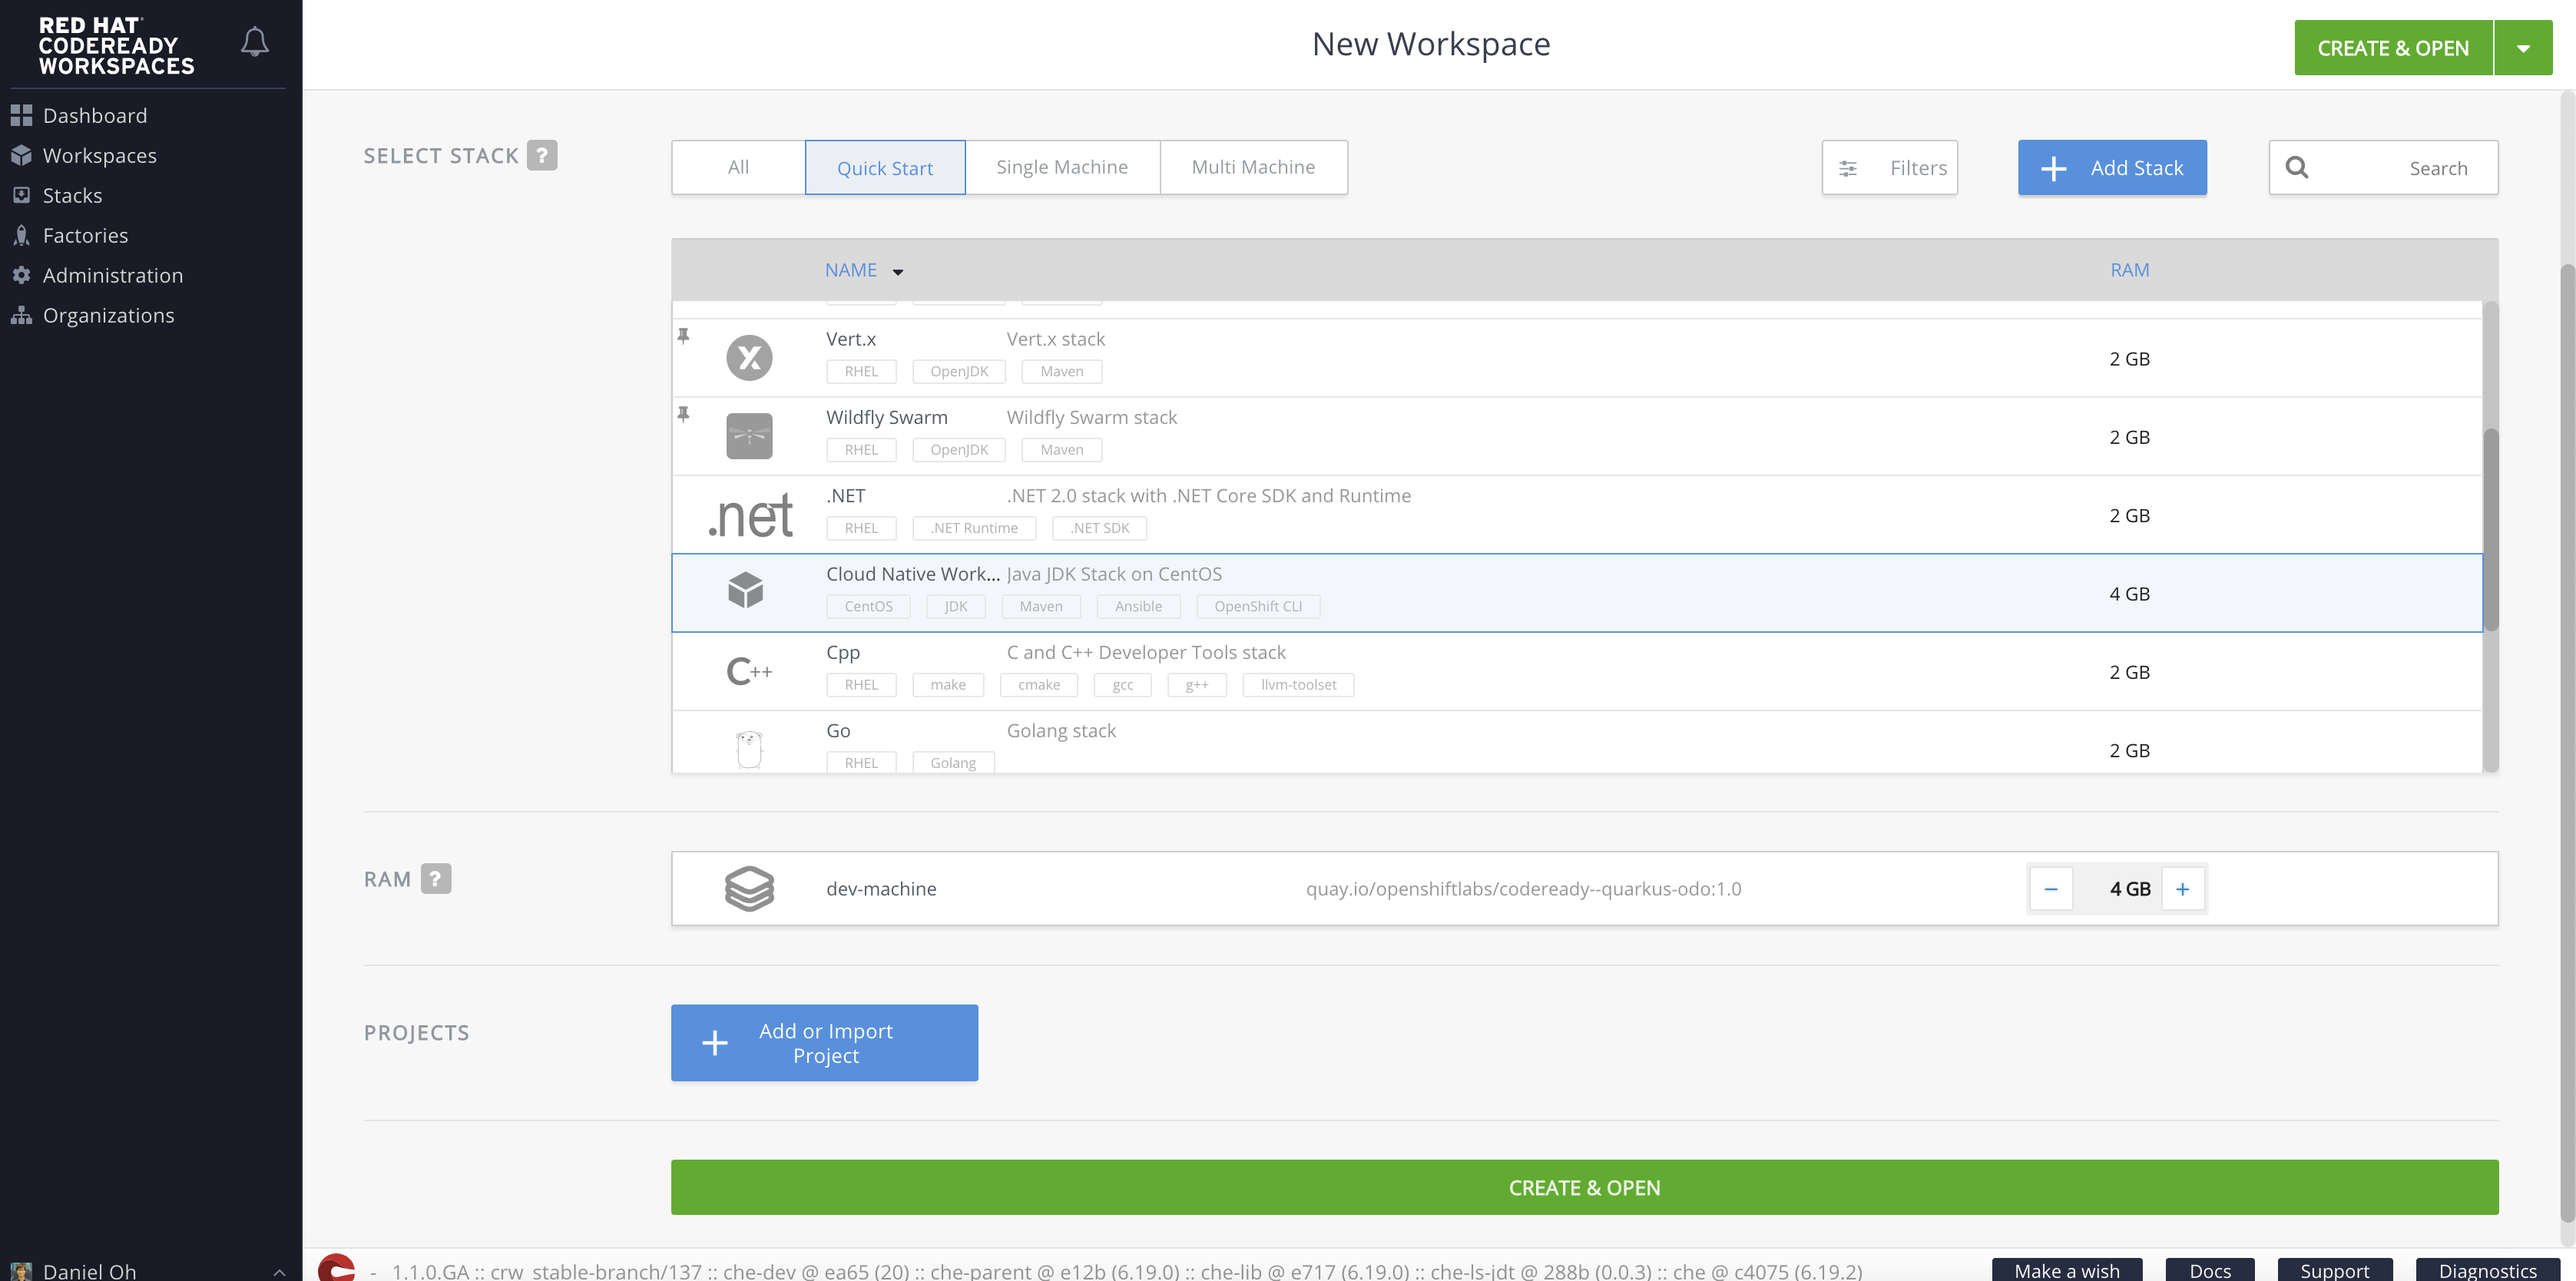
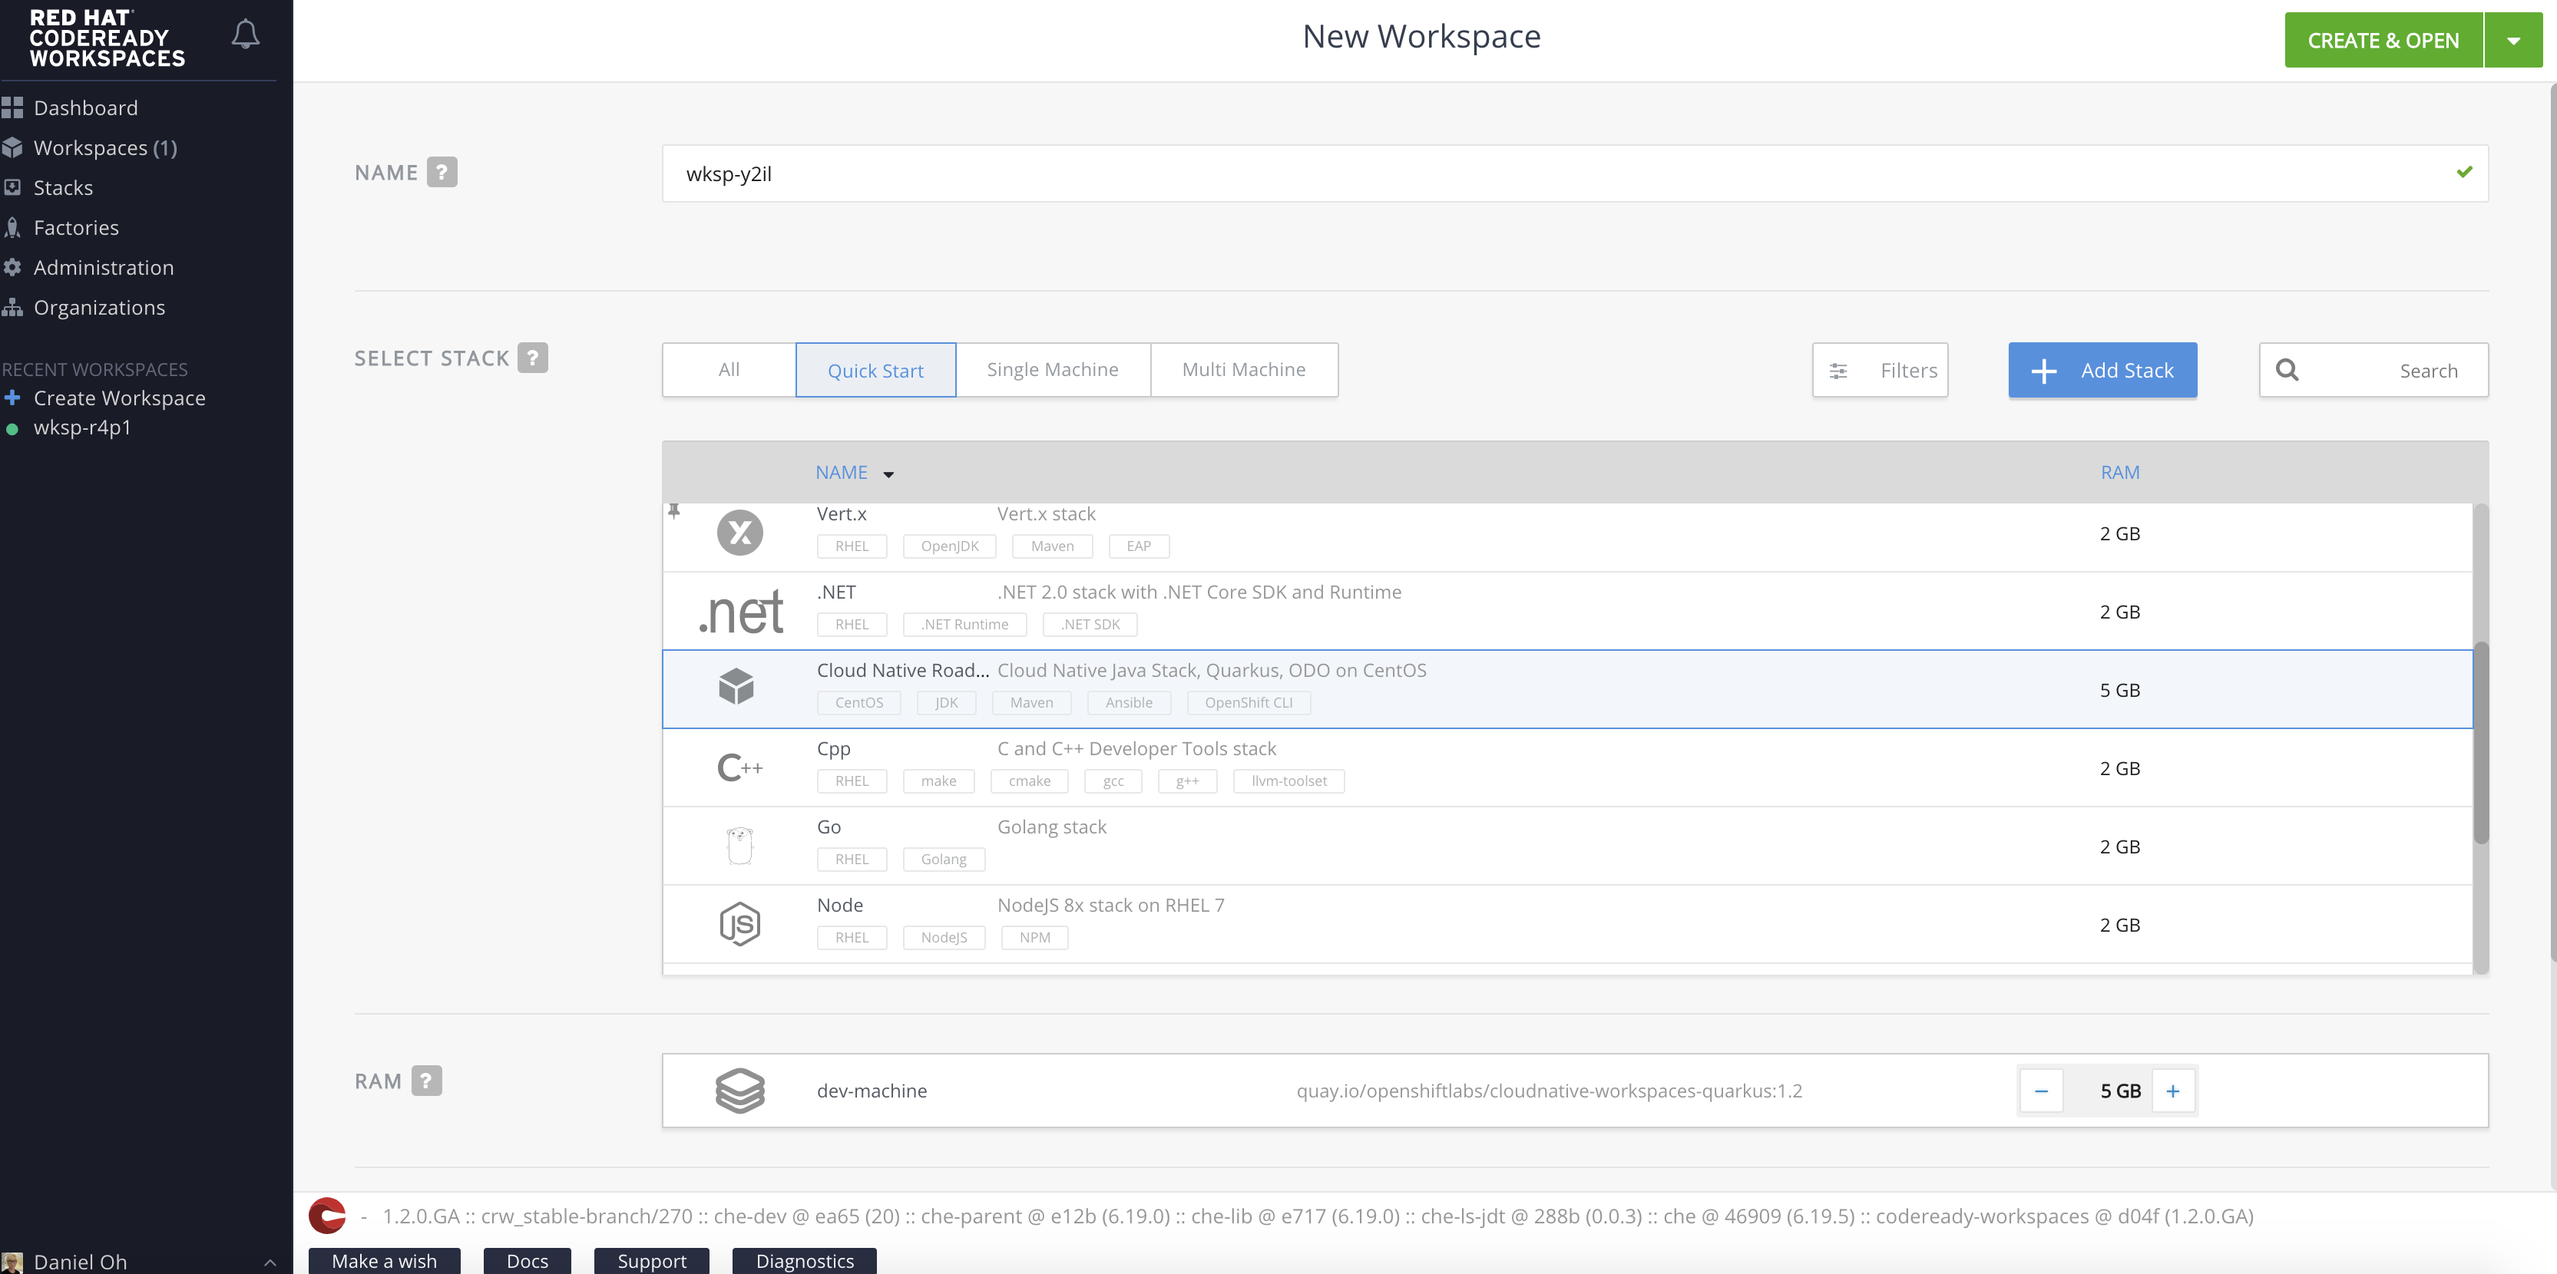
update CDW setup

diff --git a/advanced-cloud-native-services.md b/advanced-cloud-native-services.md
@@ -69,7 +69,7 @@ stack is a template of workspace configuration. For example, it includes the pro
 in your workspace. Stacks make it possible to recreate identical workspaces with all the tools and needed configuration
 on-demand. 
 
-For this lab, click on the `Java Cloud-Native` stack and then on the `Create` button. 
+For this lab, click on the `Cloud Native Roadshow` stack and then on the `Create` button. 
 
 ![codeready-workspace-create-workspace]({% image_path codeready-workspace-create-workspace.png %})
 
@@ -102,7 +102,7 @@ In the project explorer pane, click on the `Import Projects...` and enter the fo
 The projects are imported now into your workspace and is visible in the project explorer.
 
 CodeReady Workspaces is a full featured IDE and provides language specific capabilities for various project types. In order to 
-enable these capabilities, let's convert the imported project skeletons to a Maven projects. In the project explorer, right-click on `monolith` and then click on `Convert to Project`.
+enable these capabilities, let's convert the imported project skeletons to a Maven projects. In the project explorer, right-click on each project and then click on `Convert to Project`.
 
 ![codeready-workspace-convert]({% image_path codeready-workspace-convert.png %}){:width="500px"}
 
